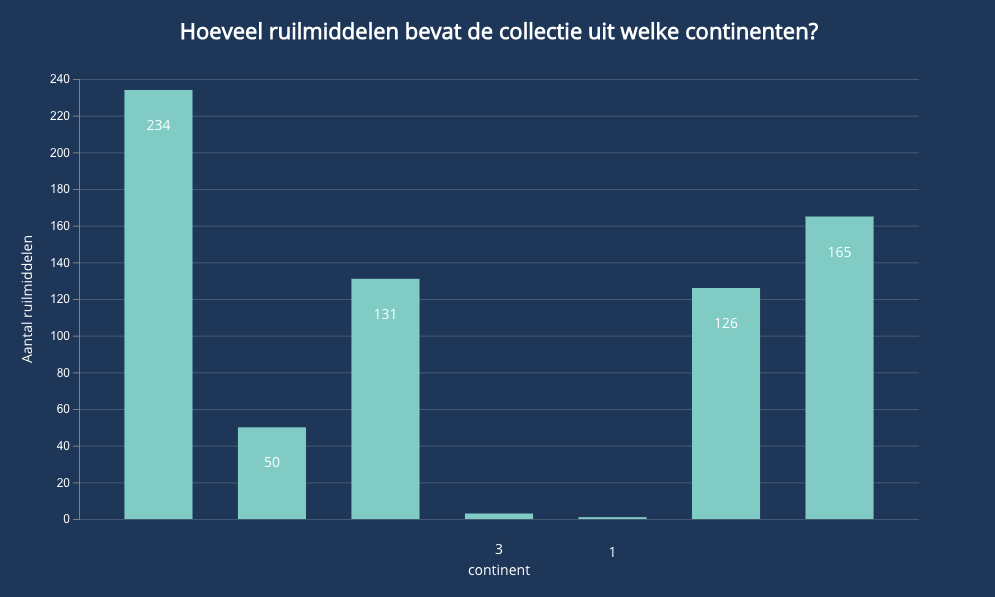
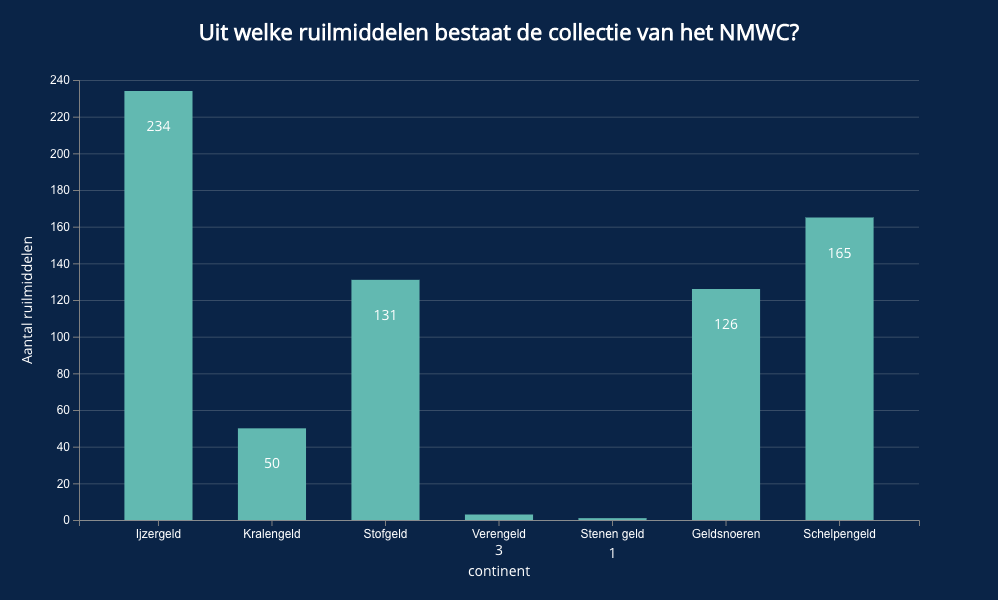
change readme

diff --git a/public/scripts/index.js b/public/scripts/index.js
@@ -49,39 +49,39 @@ function Ruilmiddelperland() {
 
 const sample = [
 	{
-	  continent: 'Ijzergeld',
+	  categorie: 'Ijzergeld',
 	  value: 234,
 	  color: '#000000'
 	},
 	{
-	  continent: 'Kralengeld',
+	  categorie: 'Kralengeld',
 	  value: 50,
 	  color: '#00a2ee'
 	},
 	{
-	  continent: 'Stofgeld',
+	  categorie: 'Stofgeld',
 	  value: 131,
 	  color: '#fbcb39'
 	},
 	{
-	  continent: 'Verengeld',
+	  categorie: 'Verengeld',
 	  value: 3,
 	  color: '#007bc8'
 	},
 	{
-	  continent: 'Stenen geld',
+	  categorie: 'Stenen geld',
 	  value: 1,
 	  color: '#65cedb'
 	},
 	{
-		continent: 'Geldsnoeren',
-		value: 126,
-		color: '#65cedb'
+	  categorie: 'Geldsnoeren',
+	  value: 126,
+	  color: '#65cedb'
 	  },
 	  {
-		continent: 'Schelpengeld',
-		value: 165,
-		color: '#65cedb'
+	  categorie: 'Schelpengeld',
+	  value: 165,
+	  color: '#65cedb'
 	  }
   ];
 
@@ -97,7 +97,7 @@ const sample = [
 
   const xScale = d3.scaleBand()
 	.range([0, width])
-	.domain(sample.map((s) => s.continent))
+	.domain(sample.map((s) => s.categorie))
 	.padding(0.4)
   
   const yScale = d3.scaleLinear()
@@ -129,7 +129,7 @@ const sample = [
   barGroups
 	.append('rect')
 	.attr('class', 'bar')
-	.attr('x', (g) => xScale(g.continent))
+	.attr('x', (g) => xScale(g.categorie))
 	.attr('y', (g) => yScale(g.value))
 	.attr('height', (g) => height - yScale(g.value))
 	.attr('width', xScale.bandwidth())
@@ -141,7 +141,7 @@ const sample = [
 		.transition()
 		.duration(300)
 		.attr('opacity', 0.6)
-		.attr('x', (a) => xScale(a.continent) - 5)
+		.attr('x', (a) => xScale(a.categorie) - 5)
 		.attr('width', xScale.bandwidth() + 10)
 
 	  const y = yScale(actual.value)
@@ -156,7 +156,7 @@ const sample = [
 
 	  barGroups.append('text')
 		.attr('class', 'divergence')
-		.attr('x', (a) => xScale(a.continent) + xScale.bandwidth() / 2)
+		.attr('x', (a) => xScale(a.categorie) + xScale.bandwidth() / 2)
 		.attr('y', (a) => yScale(a.value) + 30)
 		.attr('fill', 'white')
 		.attr('text-anchor', 'middle')
@@ -170,7 +170,7 @@ const sample = [
 		.transition()
 		.duration(300)
 		.attr('opacity', 1)
-		.attr('x', (a) => xScale(a.continent))
+		.attr('x', (a) => xScale(a.categorie))
 		.attr('width', xScale.bandwidth())
 
 	  chart.selectAll('#limit').remove()
@@ -180,7 +180,7 @@ const sample = [
   barGroups 
 	.append('text')
 	.attr('class', 'value')
-	.attr('x', (a) => xScale(a.continent) + xScale.bandwidth() / 2)
+	.attr('x', (a) => xScale(a.categorie) + xScale.bandwidth() / 2)
 	.attr('y', (a) => yScale(a.value) + 40)
 	.attr('text-anchor', 'middle')
 	.text((a) => `${a.value}`)

diff --git a/README.md b/README.md
@@ -37,13 +37,13 @@ Hier vind je de link naar het inladen en het manipuleren van de data, dit kun je
 
 ## Install
 
-```js
+```
 git clone https://github.com/emmaoudmaijer/functional-programming.git
 ```
-```js
+```
 cd functional-programming
 ```
-```js
+```
 npm install
 ```
 
